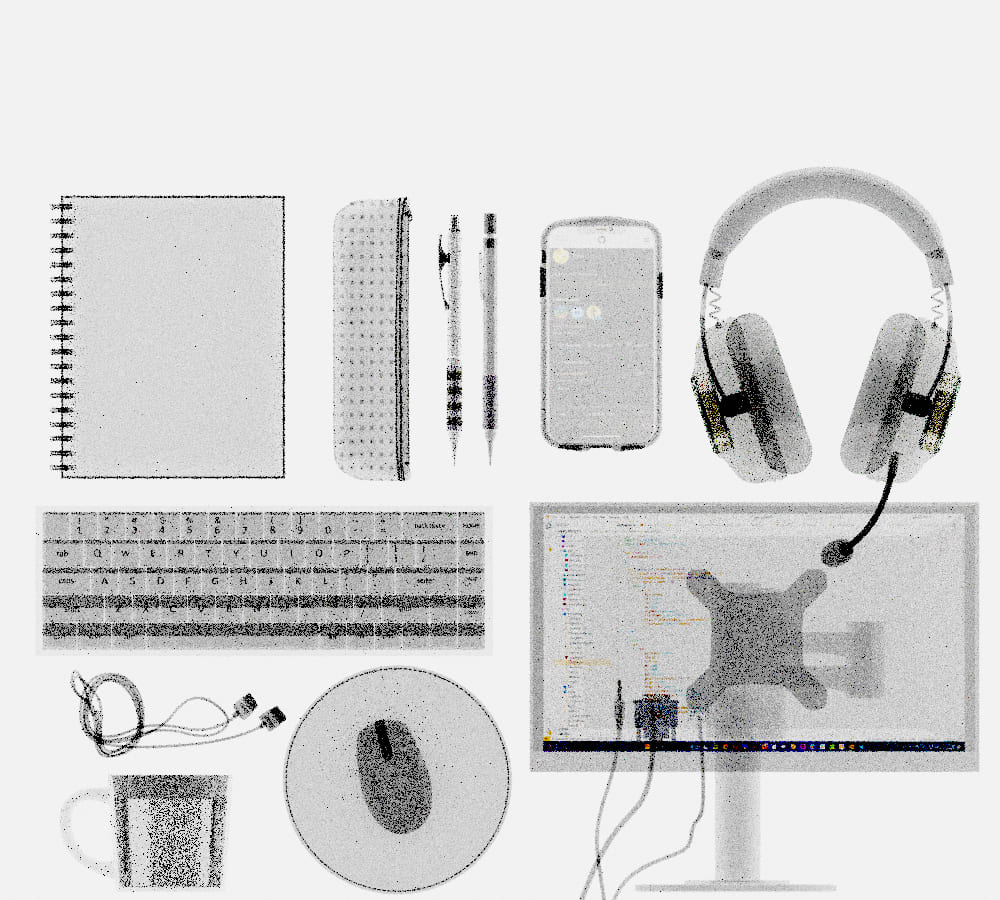
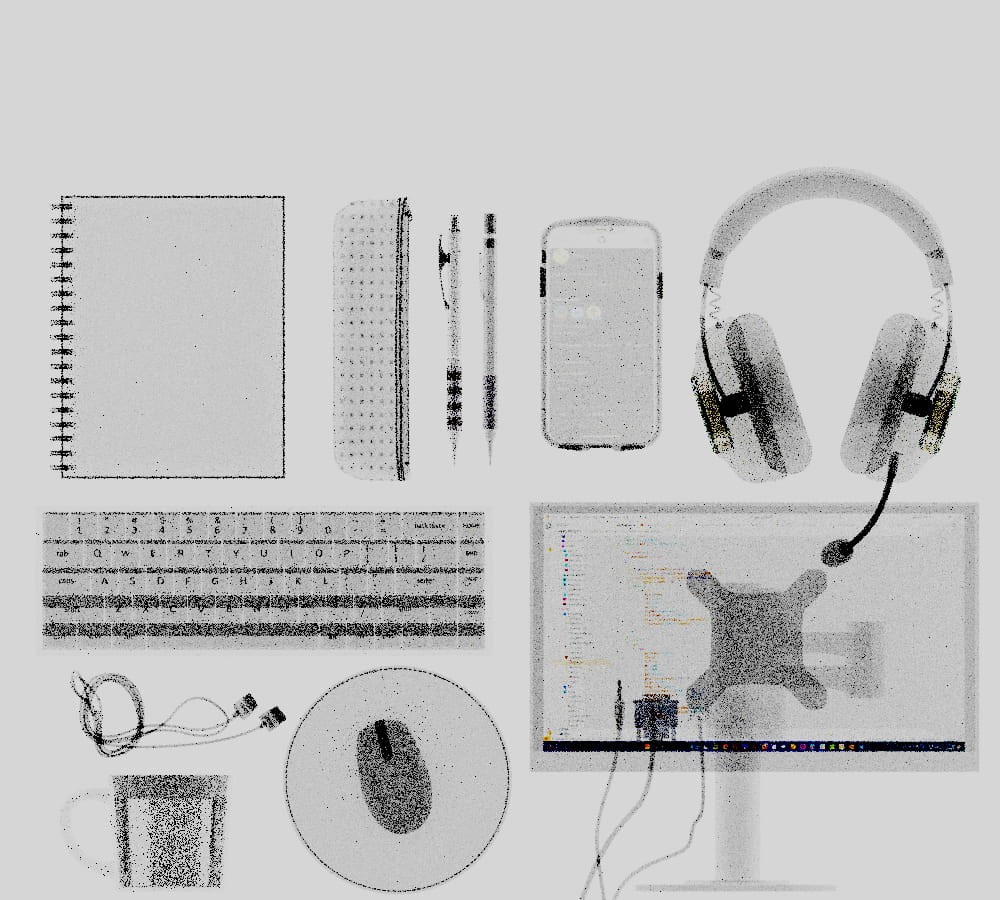
全体のカラー調整

diff --git a/src/components/About.tsx b/src/components/About.tsx
@@ -15,7 +15,7 @@ const About = () => {
         paddingBottom='10px'
         w='80%'
         maxWidth='1000px'
-        bg='#F2F2F2'
+        bg='#D6D6D6'
         spacing={0}
     >
         <Text 
@@ -43,10 +43,11 @@ const About = () => {
         <Box
             w={ w < 1000 ? `${(1-w/1000)*30 + 65}%` : '65%'}
             paddingX='30px'
-            paddingY='20px'
+            paddingY='15px'
             marginTop='30px'
             marginBottom='30px' 
-            bg='white'
+            border='1px solid #F5F5F5'
+            bg='whiteAlpha.500'
             borderRadius='10px'
         >
             <HStack marginTop='5px' marginBottom='20px'>

diff --git a/src/components/Skills.tsx b/src/components/Skills.tsx
@@ -22,7 +22,7 @@ const Skills = ({genre_name, skill_list}: Props) => {
     })
 
   return (
-    <>
+    <Box borderBottom='1px solid #F7F7F7'>
         <HStack marginTop='25px' marginBottom='10px' marginLeft='10px' h='20px'>
             <RiCircleFill color='#303030' size='10px' />
             <Text fontWeight='bold' color='#464646'>{genre_name}</Text>
@@ -30,8 +30,7 @@ const Skills = ({genre_name, skill_list}: Props) => {
         <Box paddingBottom='20px' w='100%' display='flex' flexWrap='wrap' >
             {FrontSkills}
         </Box>
-        <hr color='#EEEEEE' style={{ width: '95%' }}/>
-    </>
+    </Box>
   )
 }
 

diff --git a/src/components/Header.tsx b/src/components/Header.tsx
@@ -29,7 +29,7 @@ const Header = () => {
             alignItems='center' 
             h="60px" 
             w='100%'
-            bg='rgba(242, 242, 242, 0.8)'
+            bg='rgba(255, 255, 255, 0.4)'
             backdropFilter='auto' 
             backdropBlur='5px'
             filter='auto'

diff --git a/src/components/Top.tsx b/src/components/Top.tsx
@@ -21,7 +21,7 @@ const Top = () => {
             paddingX='15px'
             w='80%'
             maxWidth='1000px'
-            color='white' 
+            color='#EEEEEE' 
             fontSize='30px' 
             fontWeight='bold' 
             textAlign='left'

diff --git a/src/theme.ts b/src/theme.ts
@@ -10,7 +10,7 @@ export const theme = extendTheme({
       body: {
         margin: 0,
         padding: 0,
-        backgroundColor: 'white',
+        backgroundColor: '#F2F2F2',
         backgroundImage: 'url("bank-note.svg")',
       },
     }

diff --git a/src/components/Developments.tsx b/src/components/Developments.tsx
@@ -34,7 +34,7 @@ const Developments = () => {
   return (
     <VStack 
       w='80%' 
-      bg='#F2F2F2' 
+      bg='#D6D6D6' 
       maxWidth='1000px' 
       paddingBottom='30px'
     >
